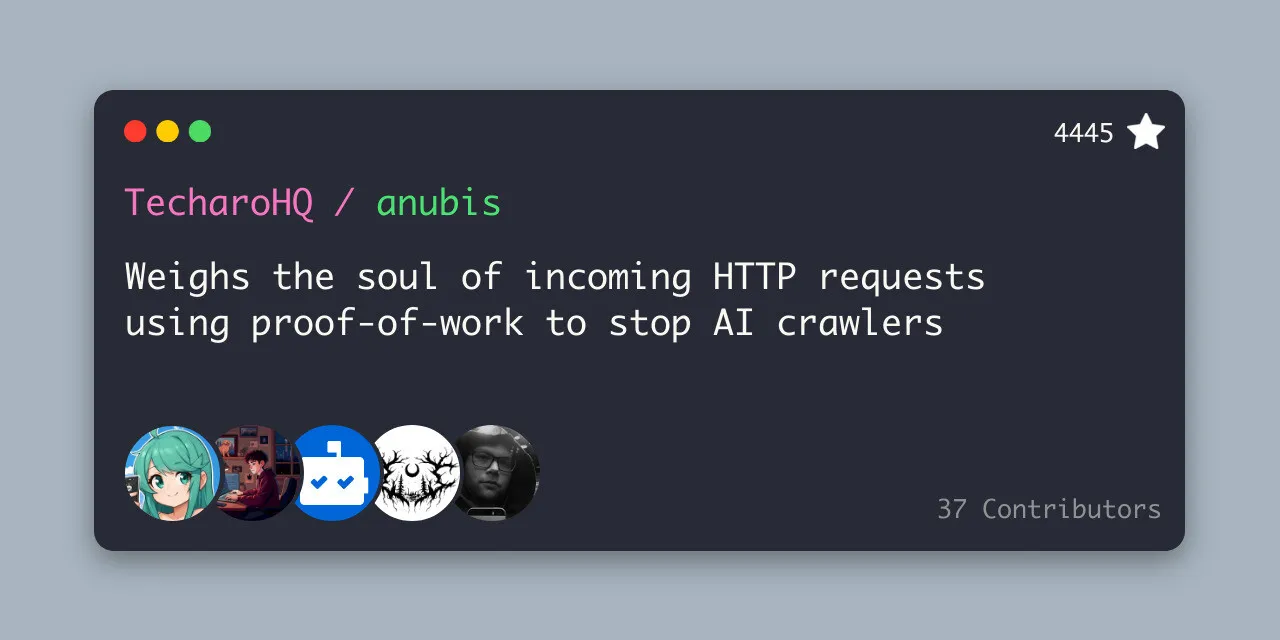
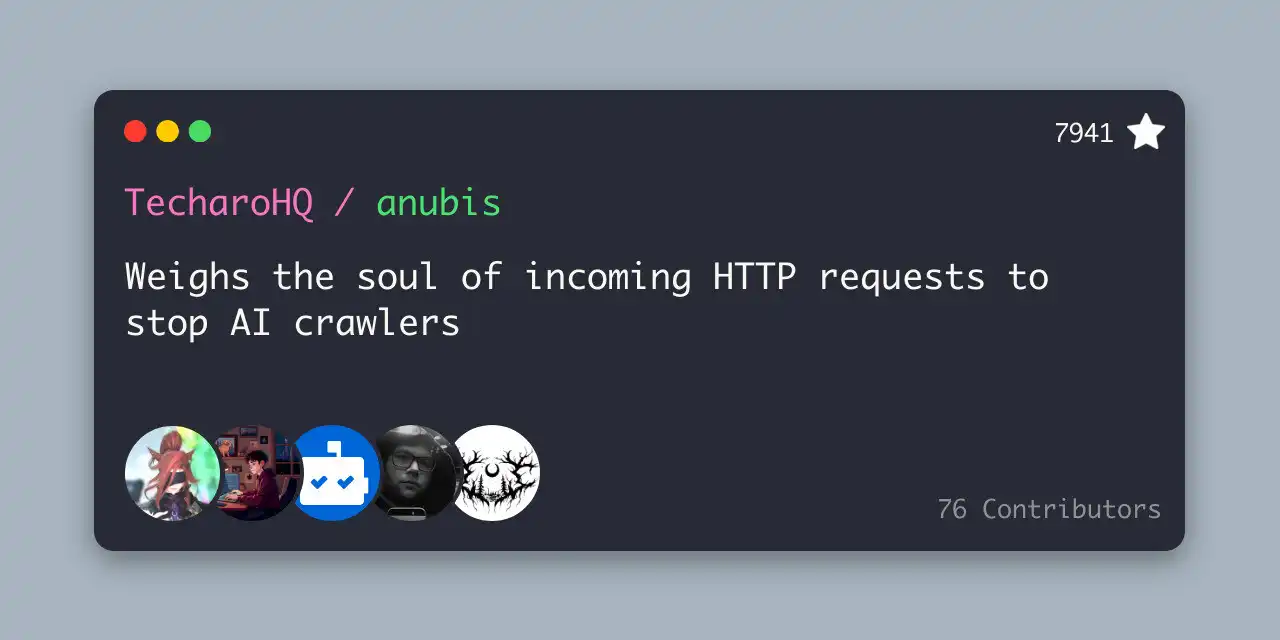
fix: update project statistics for RedditVideoMakerBot and Anubis

diff --git a/src/routes/about/+page.svelte b/src/routes/about/+page.svelte
@@ -159,9 +159,9 @@
 					Some of my more notable projects are {@render GithubProject(
 						'RedditVideoMakerBot',
 						'https://github.com/elebumm/RedditVideoMakerBot',
-						7572
+						7940
 					)} where I reverse engineered TikTok's TTS API and <!--todo: blogpost!?-->
-					{@render GithubProject('Anubis', '/projects/anubis', 7704)}, an anti AI scraper tool which
+					{@render GithubProject('Anubis', '/projects/anubis', 7941)}, an anti AI scraper tool which
 					is currently being used by organizations such as The Linux Foundation or the UN. Most of
 					my work is centered around backend development or system administration. Some sites that I
 					run include {@render ExternalLink('https://maclyonsden.com/', 'metropolis')},
